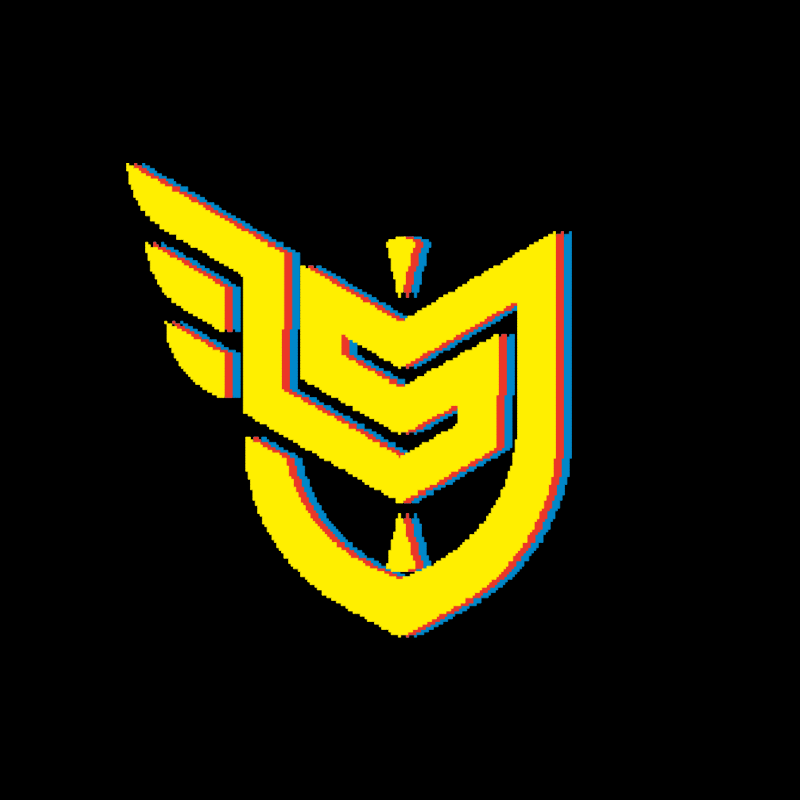
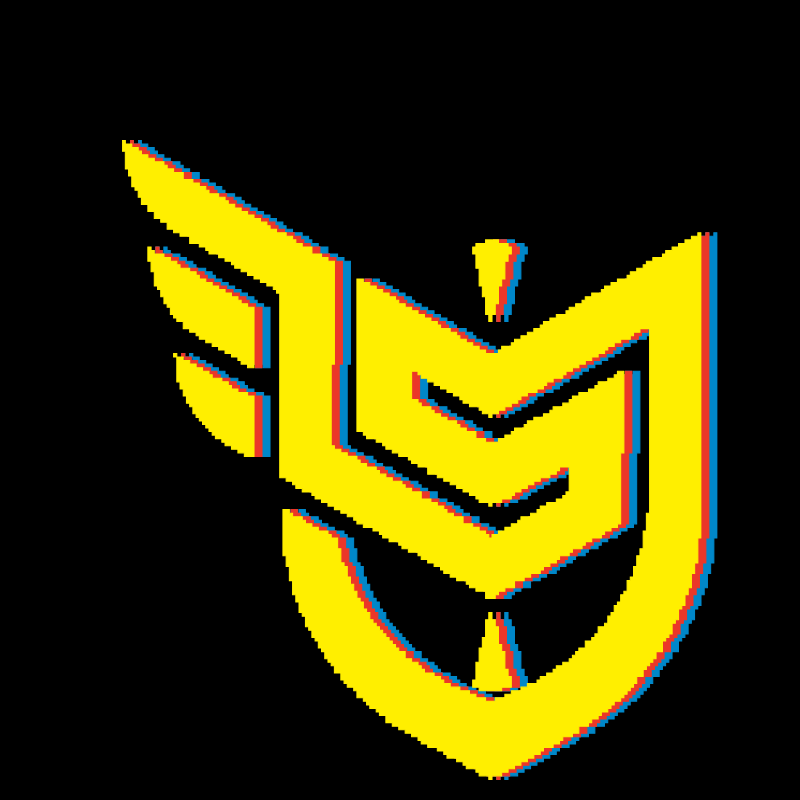
Enlarge emblem in YouTube profile image
원형 프로필 안에서 엠블럼을 약 1.35배 키우고, 원에 잘리지 않도록
위치를 살짝 아래·오른쪽으로 옮김.

Changed region(s): [[0.1562, 0.1562, 0.9062, 1.0]]

diff --git a/ssm2027/youtube/profile.html b/ssm2027/youtube/profile.html
@@ -1,7 +1,7 @@
 <!DOCTYPE html><html><head><meta charset="utf-8"><style>
 *{margin:0;padding:0}
 html,body{width:800px;height:800px;background:#000;overflow:hidden}
-/* 엠블럼 꼭지 축(너비의 63.7%)을 정중앙에 */
-.e{position:absolute;width:430px;left:400px;top:400px;transform:translate(-63.7%,-50%);
+/* 원형 프로필 안에서 최대한 크게: 위쪽 날개·방패 모서리가 원에 닿지 않도록 살짝 아래·오른쪽으로 */
+.e{position:absolute;width:580px;left:400px;top:460px;transform:translate(-48%,-50%);
    filter:drop-shadow(8px 0 0 #eb3728) drop-shadow(8px 0 0 #0087c9)}
 </style></head><body><img class="e" src="../assets/emblem-solid.svg"></body></html>
